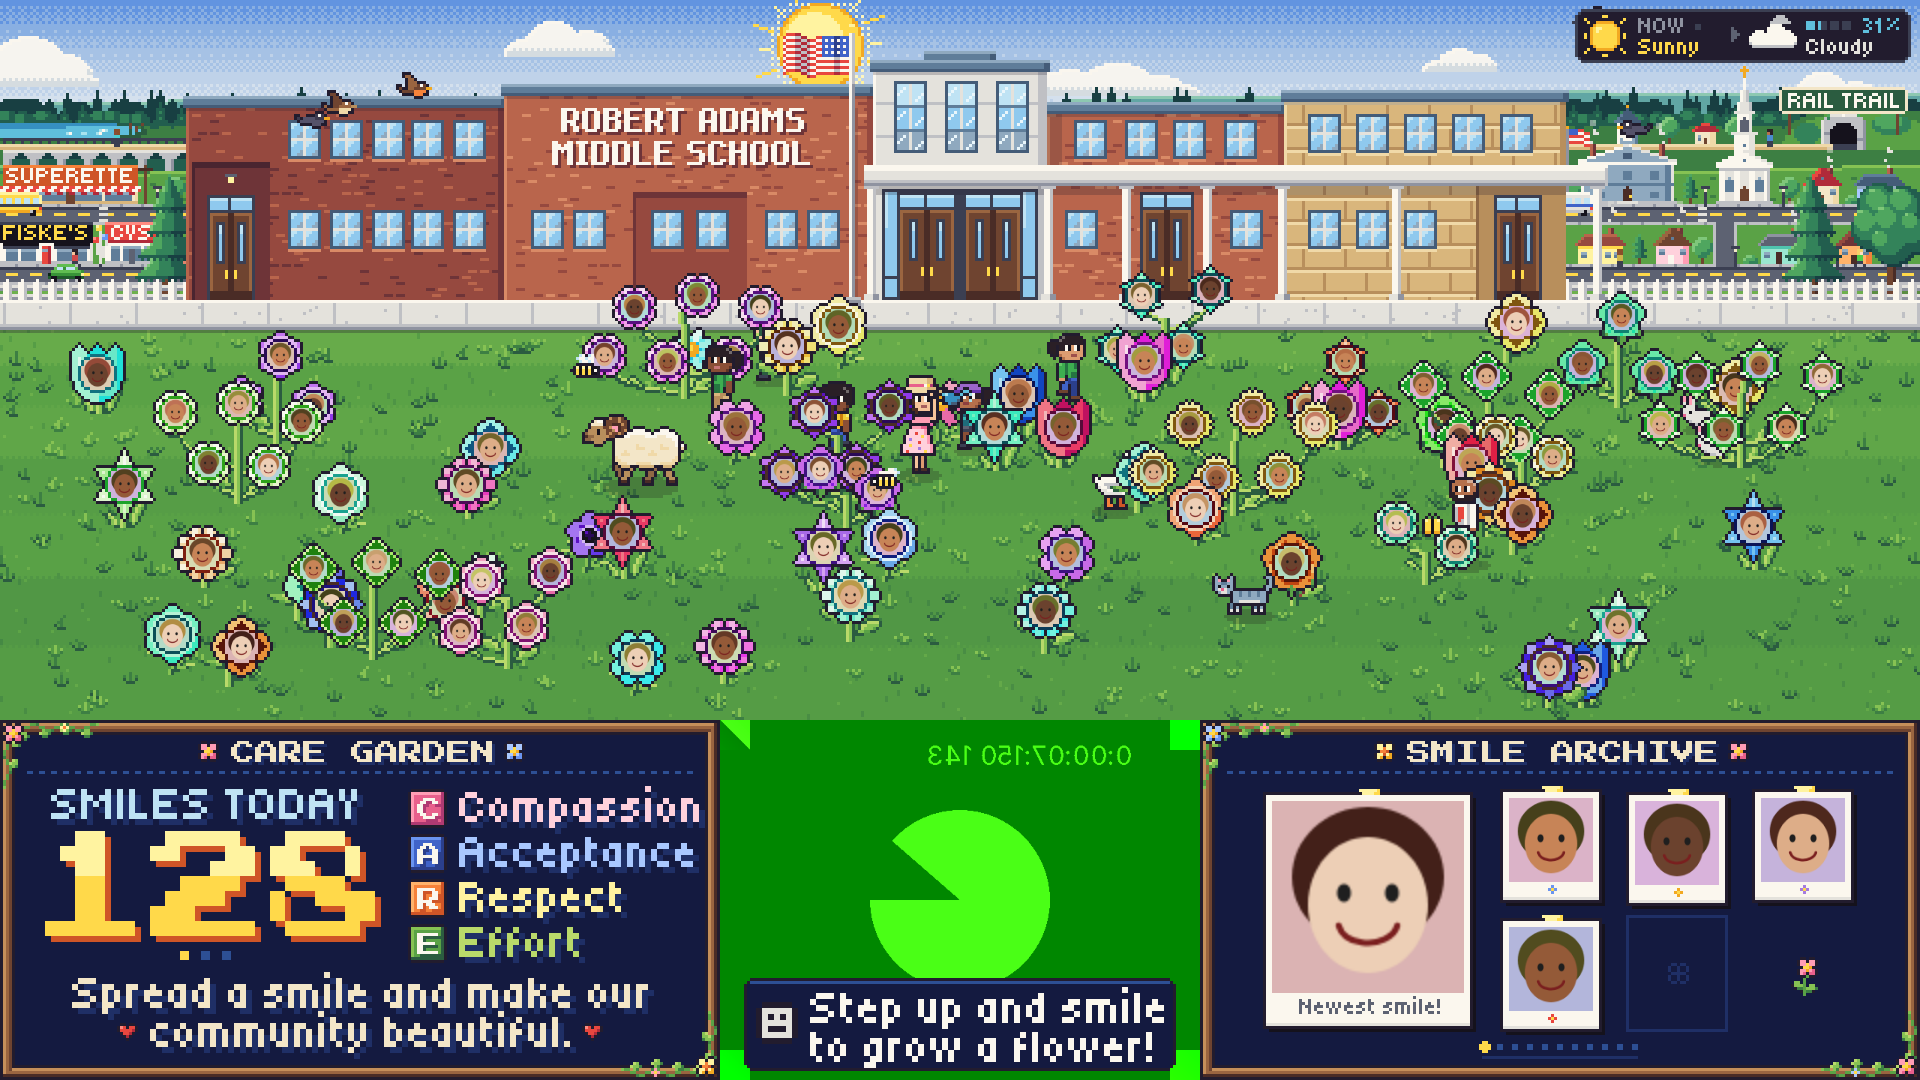
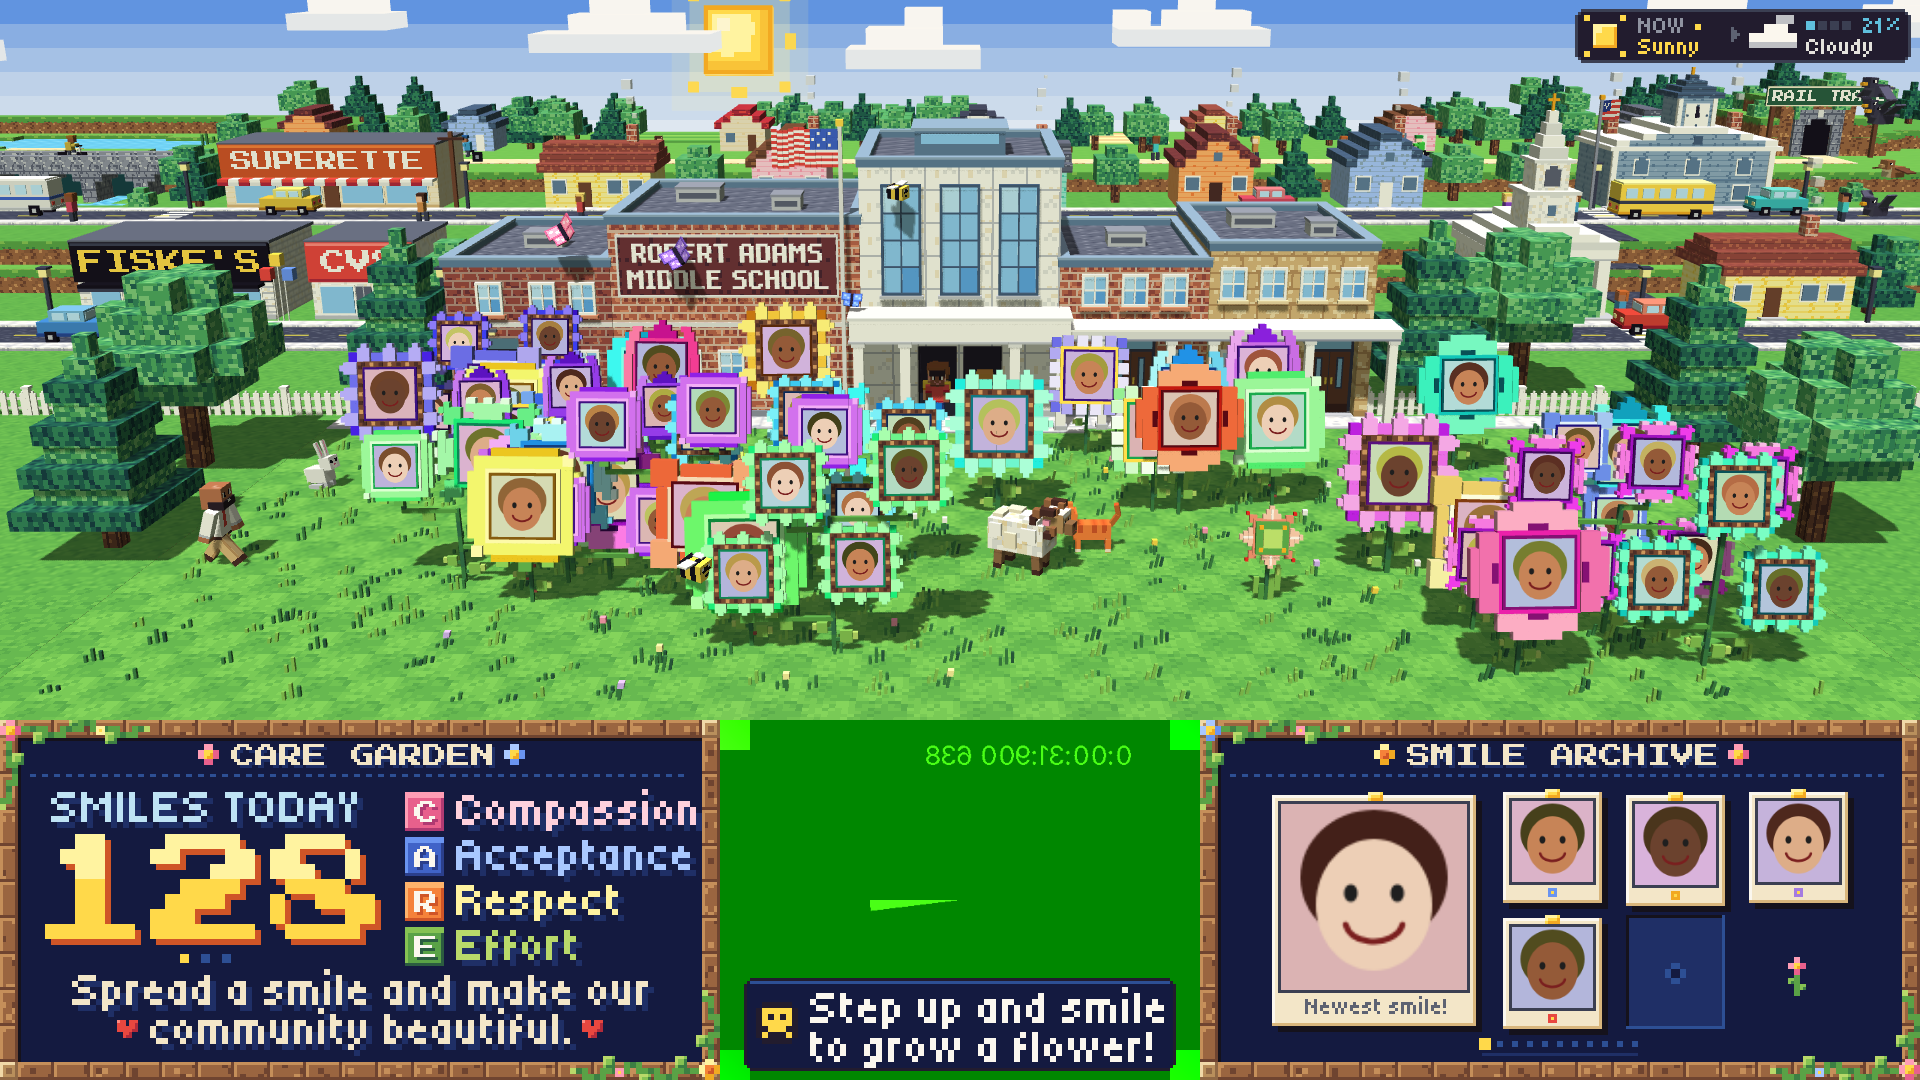
Show the 3D block version of Care Garden
Replaces the two Care Garden version 2 screenshots with the 3D block
world and updates the wording and alt text to match.

Claude-Session: https://claude.ai/code/session_01G38nkQDMJAhSoY3utnvuG3

diff --git a/portfolio.html b/portfolio.html
@@ -266,13 +266,13 @@
 
       <h3 class="version">Version 2, in progress for this year</h3>
       <div class="prose">
-        <p>Students smile at a webcam, and each smile grows a flower with their face at its center. The garden is redrawn as pixel art, with a day and night cycle, weather, and characters from the school.</p>
+        <p>Students smile at a webcam, and each smile grows a flower with their face at its center. The garden is rebuilt as a 3D block world, with a day and night cycle, weather, and characters from the school.</p>
       </div>
       <div class="feature-media">
-        <img src="images/care-garden-day.png" width="1920" height="1080" alt="Care Garden version 2 by day: a pixel-art Robert Adams Middle School with a lawn full of flowers, each with a face at its center, and a panel showing 128 smiles today.">
+        <img src="images/care-garden-day.png" width="1920" height="1080" alt="Care Garden version 2 by day: Robert Adams Middle School built from 3D blocks, with a lawn full of block flowers, each with a face at its center, and a panel showing 128 smiles today.">
       </div>
       <div class="feature-media">
-        <img src="images/care-garden-night.png" width="1920" height="1080" loading="lazy" alt="Care Garden version 2 at night: the school windows lit, a moon overhead, and the gardener heading inside.">
+        <img src="images/care-garden-night.png" width="1920" height="1080" loading="lazy" alt="Care Garden version 2 at night in 3D blocks: the school windows lit, a square moon overhead, and the gardener heading inside.">
       </div>
 
       <h3 class="version">Version 1</h3>

diff --git a/index.html b/index.html
@@ -247,8 +247,8 @@
         <h2 tabindex="-1">I built an installation for the lobby.</h2>
         <p>For our school's Care Week I made Care Garden in p5.js. Students submitted acts of kindness at a kiosk, and each one grew a flower in a shared garden on a big screen.</p>
         <p><strong>Thousands of submissions came in over one week.</strong></p>
-        <p>That was version 1. I am building <strong>version 2</strong> for this year: the garden redrawn as pixel art, where a smile at the webcam grows a flower.</p>
-        <img src="images/care-garden-day.png" width="1920" height="1080" loading="lazy" alt="Care Garden version 2: a pixel-art Robert Adams Middle School with a lawn full of flowers, each with a face at its center.">
+        <p>That was version 1. I am building <strong>version 2</strong> for this year: the garden rebuilt as a 3D block world, where a smile at the webcam grows a flower.</p>
+        <img src="images/care-garden-day.png" width="1920" height="1080" loading="lazy" alt="Care Garden version 2: Robert Adams Middle School built from 3D blocks, with a lawn full of block flowers, each with a face at its center.">
         <p class="cap">Version 2, in progress. <a href="https://perkinscole.github.io/care-garden/" target="_blank" rel="noopener">Visit the garden</a></p>
       </div>
 
